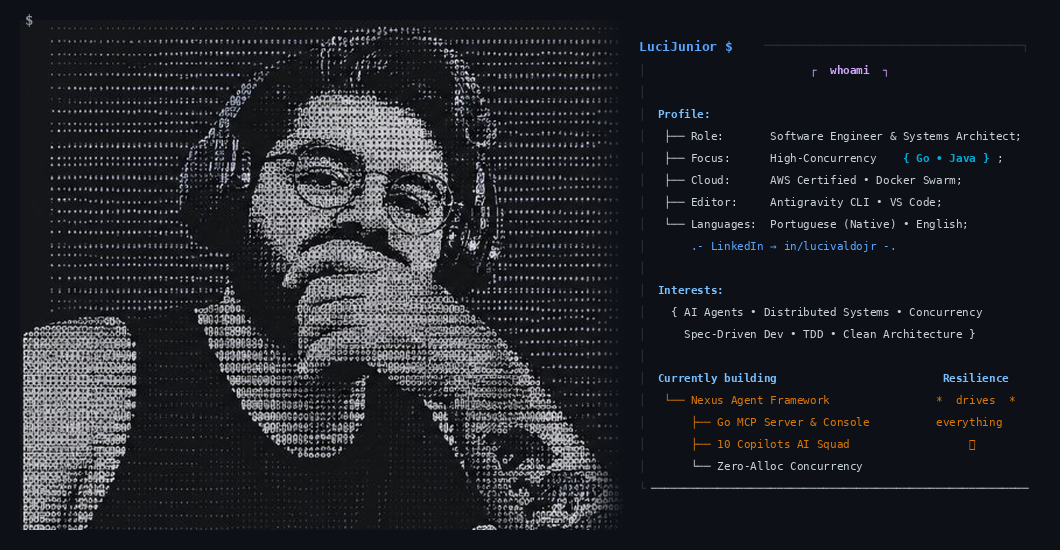
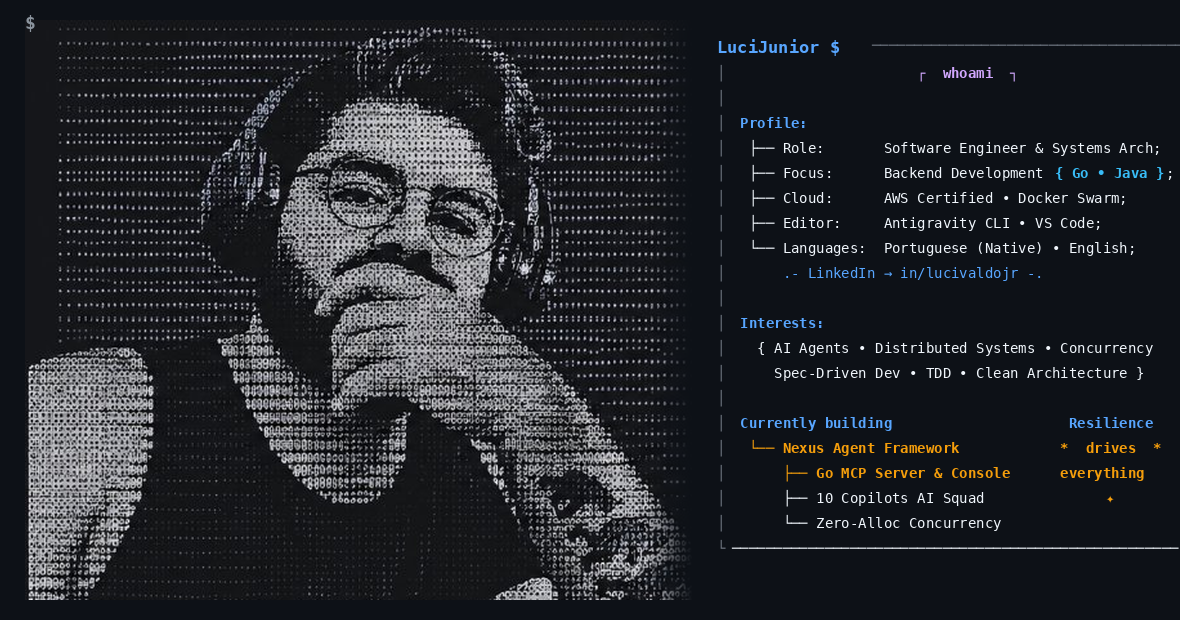
docs: aplica icone oficial do Nexus, novo card do autor nítido e remove mencoes a repositório privado

diff --git a/README.md b/README.md
@@ -1,6 +1,8 @@
 <div align="center">
 
-# 🌌 Nexus Agent Framework
+<img src="docs/assets/nexus_logo.png" alt="Nexus Logo" width="100" />
+
+# Nexus Agent Framework
 
 ### *Framework Open Source de Orquestração de Agentes Autônomos, MCP e Squad de Engenharia em Go Nativo*
 
@@ -18,9 +20,10 @@
   <a href="#-3-estrutura-de-diretórios-consolidada">Estrutura</a> •
   <a href="#-4-o-squad-de-copilotos-especialistas">Squad</a> •
   <a href="#-5-catálogo-do-servidor-mcp-nativo">MCP Tools</a> •
-  <a href="#-6-trilha-de-tutoriais-oficiais-onboarding">Tutoriais</a> •
-  <a href="#-7-acesso-remoto-pelo-celular-custo-zero">Acesso Móvel</a> •
-  <a href="#-8-quickstart-em-3-minutos">Quickstart</a> •
+  <a href="#-6-personalização-perfil-e-currículo">Personalização</a> •
+  <a href="#-7-trilha-de-tutoriais-oficiais-onboarding">Tutoriais</a> •
+  <a href="#-8-acesso-remoto-pelo-celular-custo-zero">Acesso Móvel</a> •
+  <a href="#-9-quickstart-em-3-minutos">Quickstart</a> •
   <a href="#-autor--arquiteto">Autor</a>
 </p>
 
@@ -122,13 +125,19 @@ nexus-agent-framework/
 │   ├── skill-builder              # Forjador de Agent Skills sob a Regra dos 3X
 │   └── premium-ui-landing-page    # Design System e landing pages de alta conversão
 │
+├── 📋 templates/           # Modelos de Personalização para Novos Usuários
+│   ├── perfil.example.md          # Modelo para preencher stacks, senioridade e bio
+│   ├── candidato.example.json     # Modelo para análise de vagas com IA e match de ATS
+│   └── preferencias.example.md    # Configuração de estilo de resposta dos agentes
+│
 ├── 📁 docs/                # Documentação e Tutoriais Oficiais
 │   ├── tutoriais/          # Trilha de onboarding passo a passo
 │   │   ├── 01_instalacao_e_setup_local.md         # Setup do zero em 3 minutos
 │   │   ├── 02_conectando_ao_seu_agente.md         # Conexão MCP (Claude, Cursor, AGY)
 │   │   ├── 03_usando_o_squad_de_especialistas.md  # Orquestração do squad e prompts
-│   │   └── 04_acesso_remoto_celular_gratuito.md   # Acesso 4G/5G com Tailscale
-│   └── assets/             # Assets e cards visuais do framework
+│   │   ├── 04_acesso_remoto_celular_gratuito.md   # Acesso 4G/5G com Tailscale
+│   │   └── 05_personalizacao_perfil_e_curriculo.md # Como customizar o framework
+│   └── assets/             # Assets e card do autor oficial
 │
 ├── ⚙ .mcp.json            # Manifesto de registro MCP portátil (caminho relativo)
 ├── 📄 .env.example         # Modelo de variáveis de ambiente configuráveis
@@ -173,22 +182,27 @@ O **Nexus MCP Server** implementa o protocolo oficial da Anthropic (*Model Conte
 
 ---
 
-## 📚 6. Trilha de Tutoriais Oficiais (Onboarding)
+## 👤 6. Personalização: Perfil e Currículo
 
-Preparamos uma trilha mastigada passo a passo para você dominar o framework em minutos:
+O framework vem com modelos prontos na pasta [`templates/`](templates/) para que você adapte o sistema à sua realidade:
 
-* 📖 **[Tutorial 01: Instalação e Setup Local do Zero](docs/tutoriais/01_instalacao_e_setup_local.md)**
-  *Pré-requisitos mínimos, compilação com 1 comando e inicialização do console.*
-* 🔌 **[Tutorial 02: Conectando o Nexus MCP aos seus Agentes](docs/tutoriais/02_conectando_ao_seu_agente.md)**
-  *Configuração no Claude Code, Antigravity CLI, Cursor IDE e Claude Desktop.*
-* 👥 **[Tutorial 03: Orquestrando o Squad de Agentes Especialistas](docs/tutoriais/03_usando_o_squad_de_especialistas.md)**
-  *Fluxo de Spec-Driven Development (TDD + Clean Code) e prompts reais prontos.*
-* 📱 **[Tutorial 04: Acesso Remoto no Celular Fora de Casa (100% Gratuito)](docs/tutoriais/04_acesso_remoto_celular_gratuito.md)**
-  *Como conectar seu celular via 4G/5G com Tailscale ou Cloudflare Tunnel sem abrir portas.*
+1. **`templates/perfil.example.md`:** Preencha seu histórico, linguagens e objetivos para que a Lucy adapte o código à sua senioridade.
+2. **`templates/candidato.example.json`:** Configure suas pretensões salariais e preferências de trabalho para o copiloto Frellas auditar vagas para você.
+3. **`templates/preferencias.example.md`:** Defina o tom de resposta dos agentes (método socrático, direto ao ponto ou formal).
 
 ---
 
-## 📱 7. Acesso Remoto pelo Celular (Custo Zero)
+## 📚 7. Trilha de Tutoriais Oficiais (Onboarding)
+
+* 📖 **[Tutorial 01: Instalação e Setup Local do Zero](docs/tutoriais/01_instalacao_e_setup_local.md)**
+* 🔌 **[Tutorial 02: Conectando o Nexus MCP aos seus Agentes](docs/tutoriais/02_conectando_ao_seu_agente.md)**
+* 👥 **[Tutorial 03: Orquestrando o Squad de Agentes Especialistas](docs/tutoriais/03_usando_o_squad_de_especialistas.md)**
+* 📱 **[Tutorial 04: Acesso Remoto no Celular Fora de Casa (100% Gratuito)](docs/tutoriais/04_acesso_remoto_celular_gratuito.md)**
+* 👤 **[Tutorial 05: Personalizando Seu Perfil, Currículo e Preferências](docs/tutoriais/05_personalizacao_perfil_e_curriculo.md)**
+
+---
+
+## 📱 8. Acesso Remoto pelo Celular (Custo Zero)
 
 Acesse o **Nexus Web Console** no smartphone quando estiver na rua ou viajando:
 
@@ -198,7 +212,7 @@ Acesse o **Nexus Web Console** no smartphone quando estiver na rua ou viajando:
 
 ---
 
-## 🚀 8. Quickstart em 3 Minutos
+## 🚀 9. Quickstart em 3 Minutos
 
 ```bash
 # 1. Clonar o repositório:
@@ -241,7 +255,7 @@ Distribuído sob a licença **MIT**. Consulte [`LICENSE`](LICENSE) para mais det
 > *"Da pressão contínua das cozinhas profissionais por mais de 15 anos para a engenharia de software de alta performance: trago a disciplina operacional da gastronomia, a calma sob pressão e o foco intransigente em entregar sistemas sólidos, leves e que resolvem problemas reais."*
 
 * **Stack Principal:** Go (Golang 1.22+) • Java 21 (Spring Boot 3) • PostgreSQL • Docker & Swarm • Nuvem AWS (AWS Certified)
-* **Ecossistema:** Criador do **Nexus Ecosystem** & **Nexus Agent Framework**
+* **Projeto:** Criador & Arquiteto do **Nexus Agent Framework**
 
 ---
 

diff --git a/templates/preferencias.example.md b/templates/preferencias.example.md
@@ -17,3 +17,4 @@ Este arquivo define como a **Lucy (Orquestradora)** e os copilotos devem se comp
 * **Qualidade de Código:** [TDD obrigatório em regras de negócio críticas e Clean Architecture]
 * **Segurança:** [Proibido comitar arquivos `.env`, chaves privadas ou tokens no Git]
 * **Autonomia do Agente:** [A Lucy tem autonomia para decidir a melhor abordagem de software sem me travar com perguntas desnecessárias]
+

diff --git a/templates/perfil.example.md b/templates/perfil.example.md
@@ -35,3 +35,4 @@ Descreva em 1 ou 2 parágrafos o seu foco de carreira, a sua senioridade atual (
 ## 🎓 FORMAÇÃO & CERTIFICAÇÕES
 - **Graduação:** [Seu Curso] — [Instituição] (Ano de Conclusão)
 - **Certificações:** [Ex: AWS Certified Cloud Practitioner, Oracle Certified Java, etc.]
+

diff --git a/docs/tutoriais/05_personalizacao_perfil_e_curriculo.md b/docs/tutoriais/05_personalizacao_perfil_e_curriculo.md
@@ -62,3 +62,4 @@ Escolha como prefere ser tratado:
 
 ## 🎯 Conclusão
 Com esses 3 arquivos preenchidos, o **Nexus Agent Framework** deixa de ser um assistente genérico e se torna o **seu copiloto de carreira e engenharia personalizado**.
+
